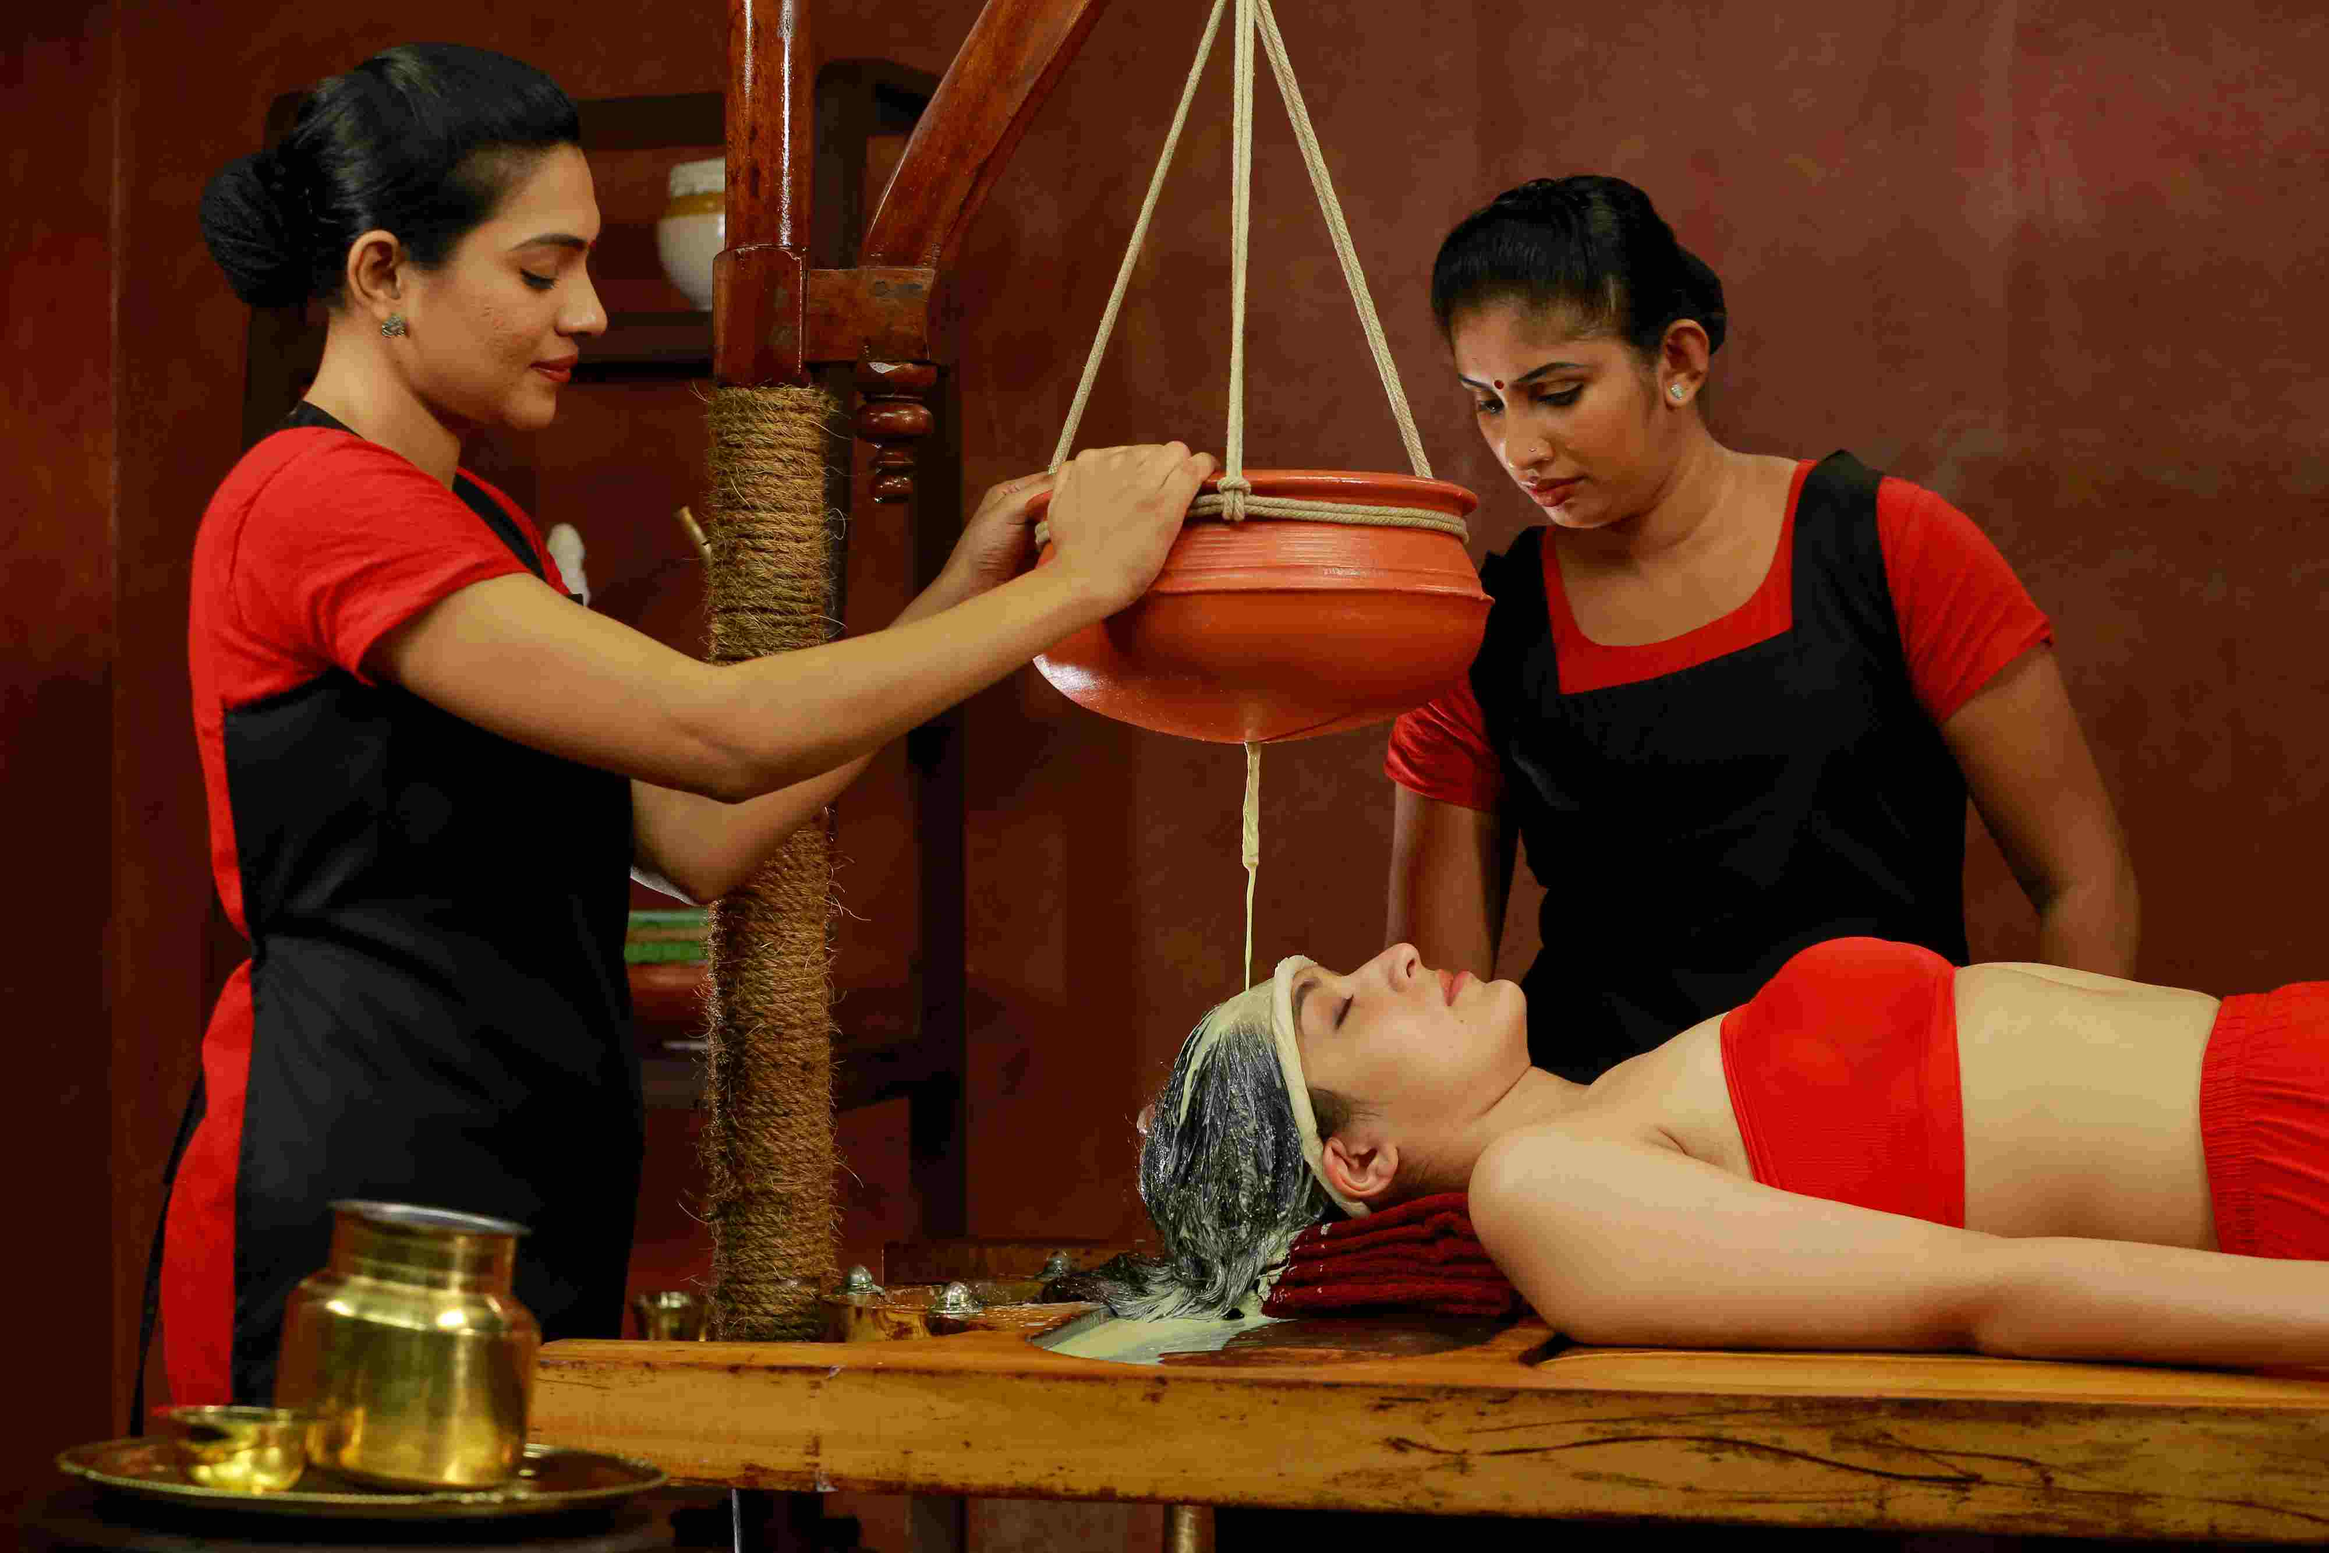
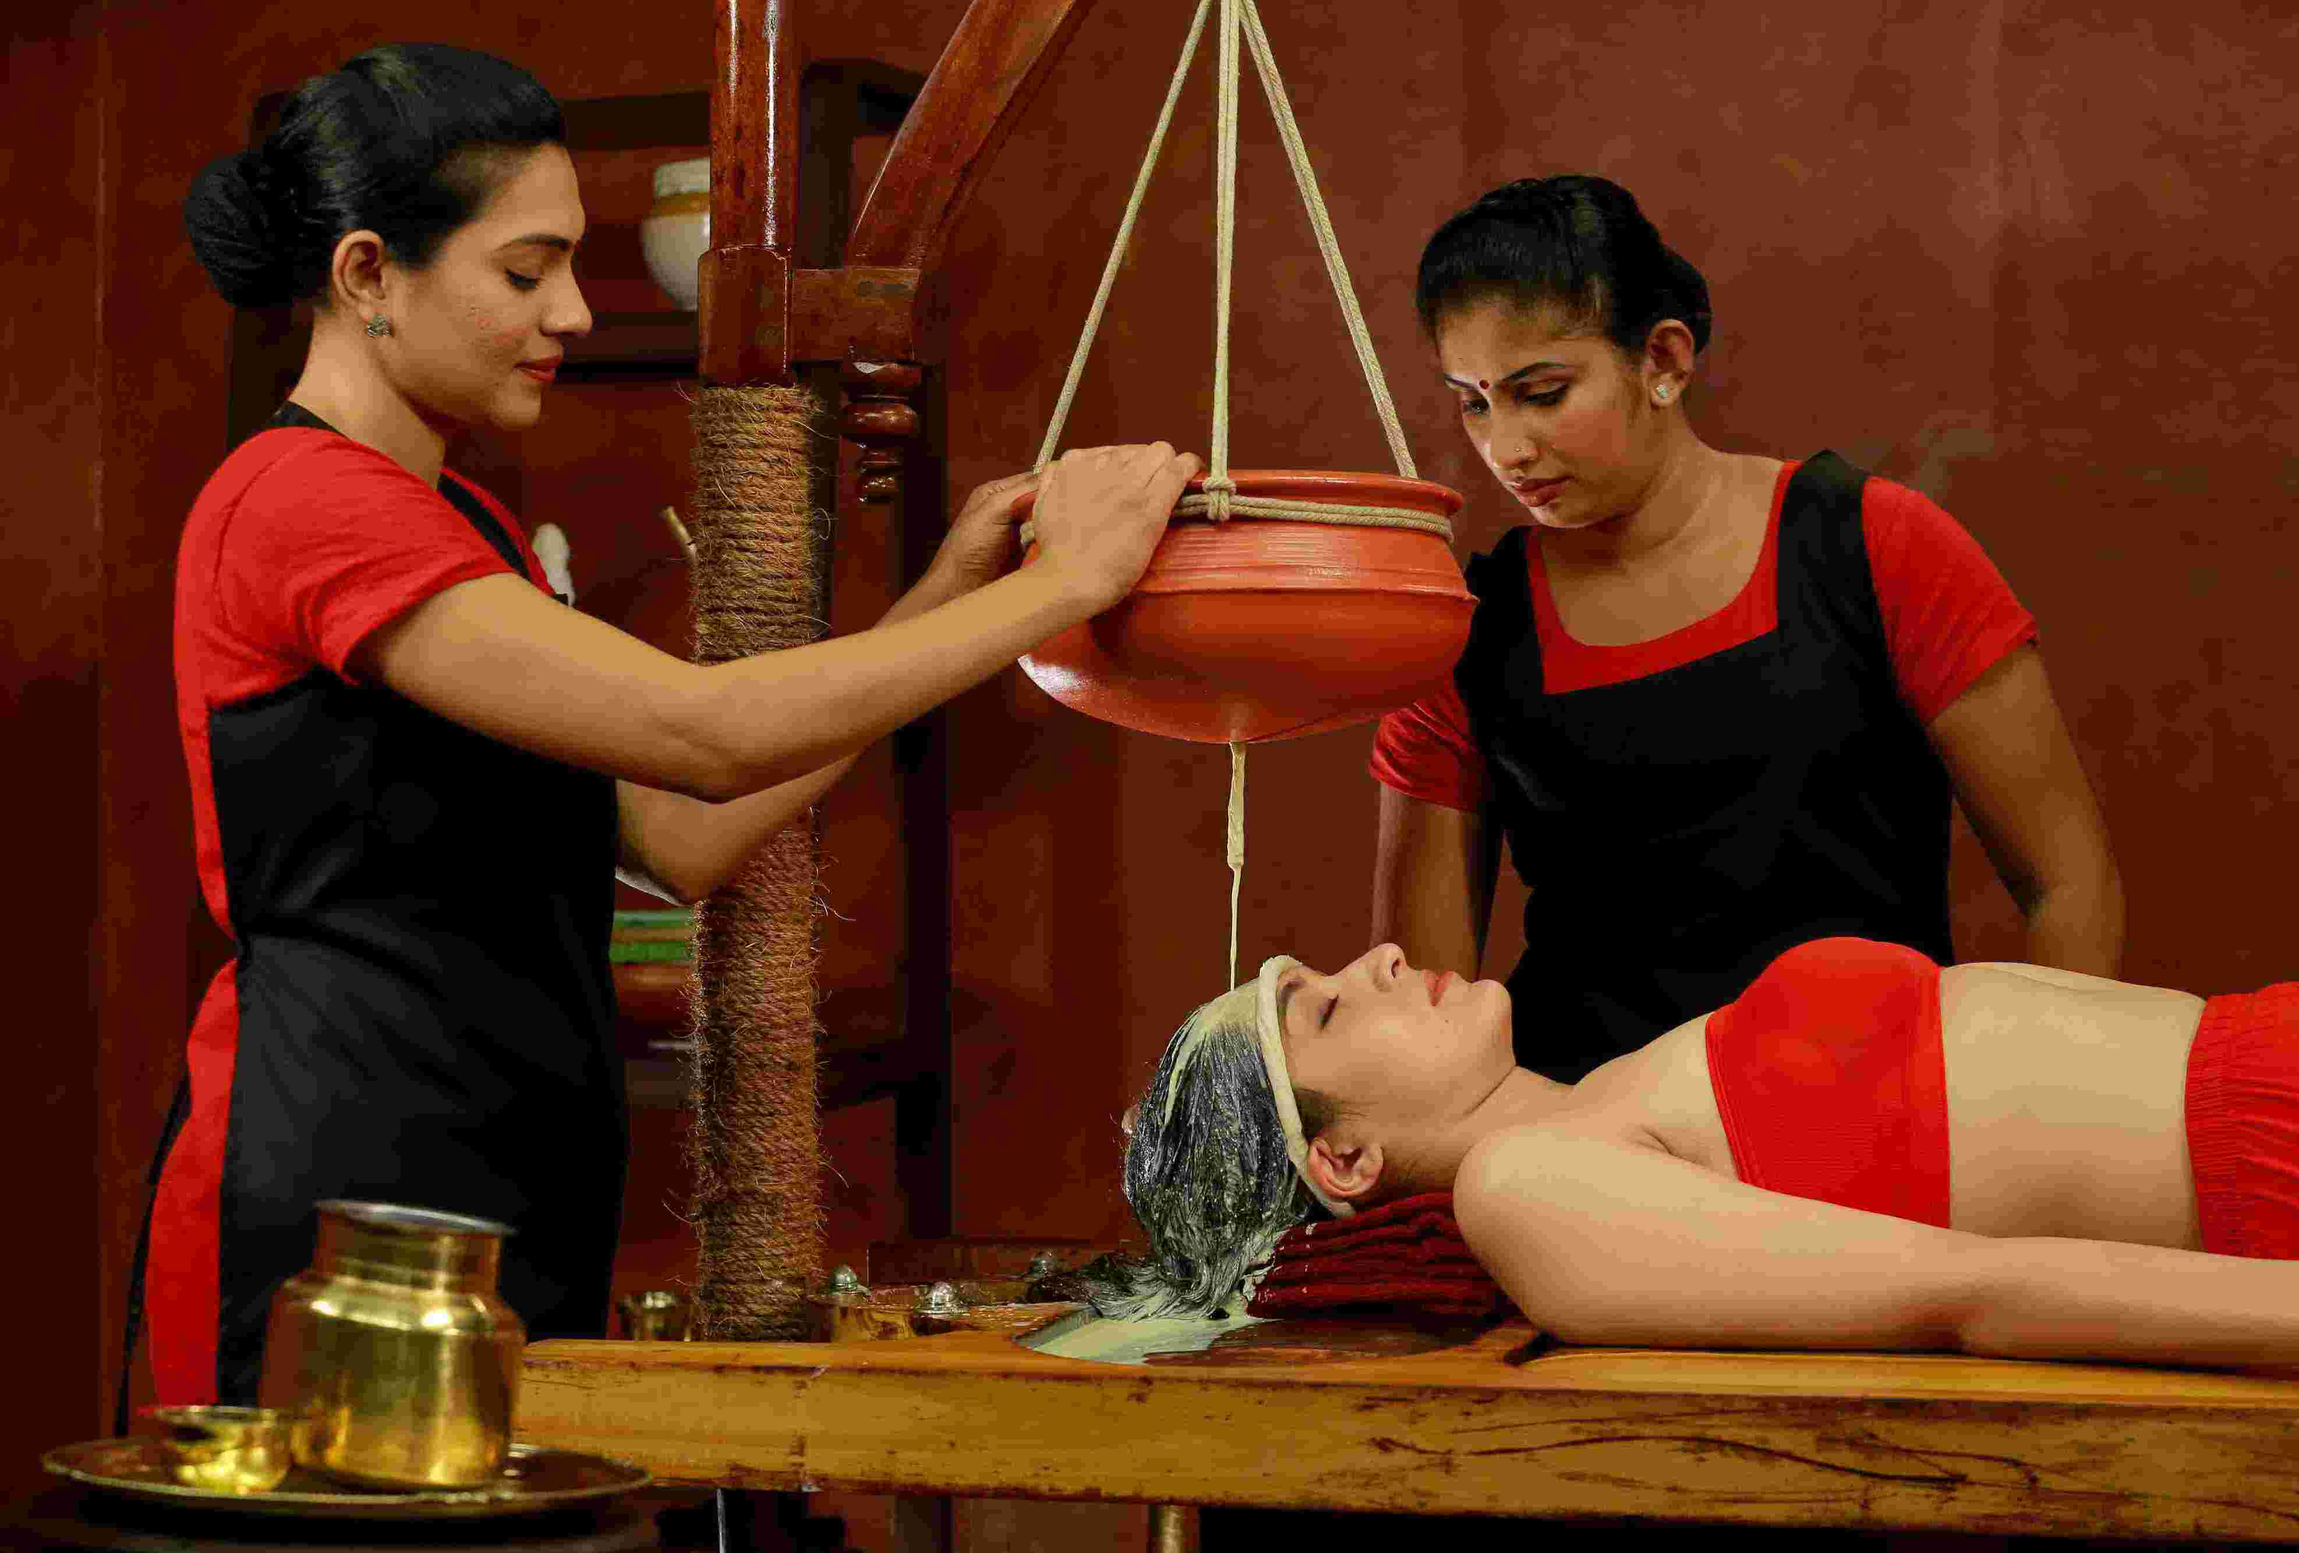
image resolution decrease stable

diff --git a/index.html b/index.html
@@ -78,7 +78,7 @@
             style="height: 100px; position: fixed; top: 0;bottom:1px; left: 0; width: 100%; z-index: 1050; padding-top: 10px; margin-top: 0px; margin-bottom: -80px;">            
             <a href="#">
                 <div class="d-flex justify-content-center align-items-center h-100" style="font-size: 1.35rem;">                    
-                    <button type="button" class="btn btn-primary text-white me-3 btn-animate" style="font-size: 1.15rem; padding: 14px 32px;">NEW</button>
+                    <button type="button" class="btn btn-primary text-white me-3 btn-animate" style="font-size: 1.15rem; padding: 14px 32px; top:0;">NEW</button>
                     <a href="#" class="text-light text-animate" style="margin-top:10px; align-item-center">Slots Open For Prasava Raksha: Book a Free Consultation →</a>
                 </div>
             </a>
